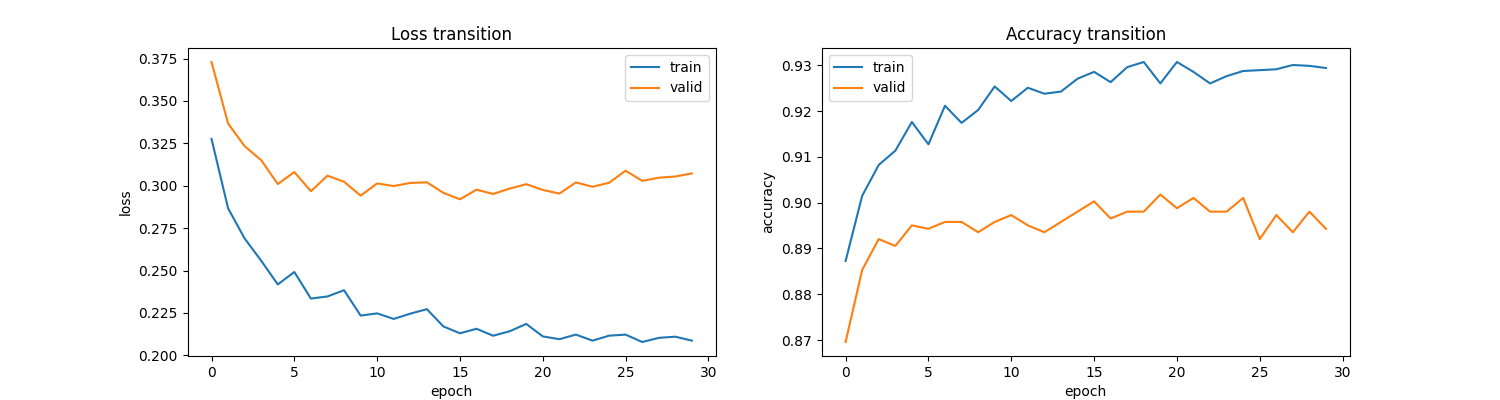
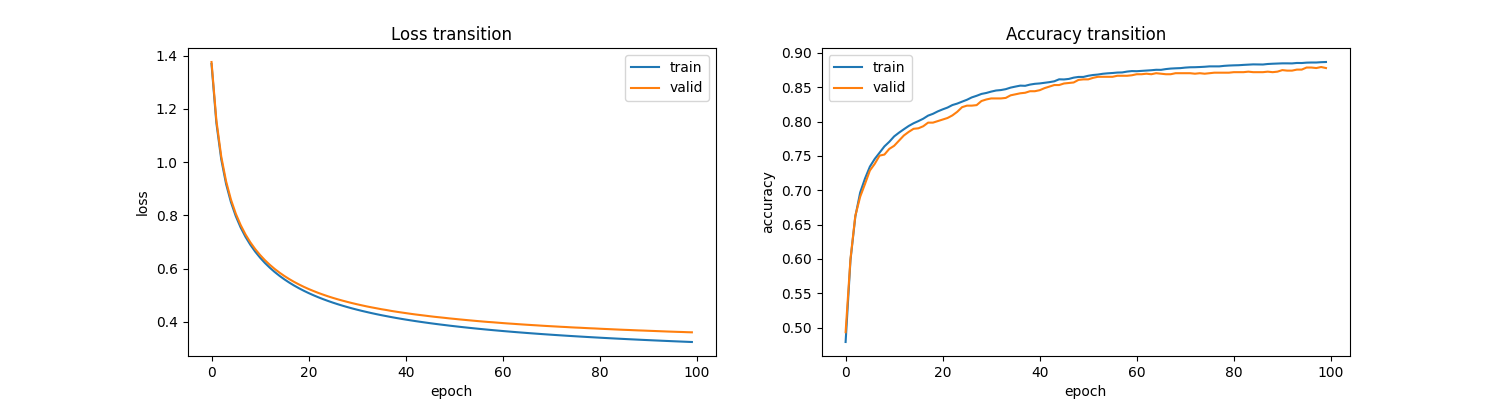
modified

diff --git a/kyotaro/chapter08/knock75.py b/kyotaro/chapter08/knock75.py
@@ -41,9 +41,9 @@ model = NeuralNetwork(300, 4)
 
 loss_fn = nn.CrossEntropyLoss()
 
-oprimizer = torch.optim.SGD(model.parameters(), lr = 1e-1)
+oprimizer = torch.optim.SGD(model.parameters(), lr = 1e-3)
 
-num_epochs = 30
+num_epochs = 100
 log_train = []
 log_valid = []
 
